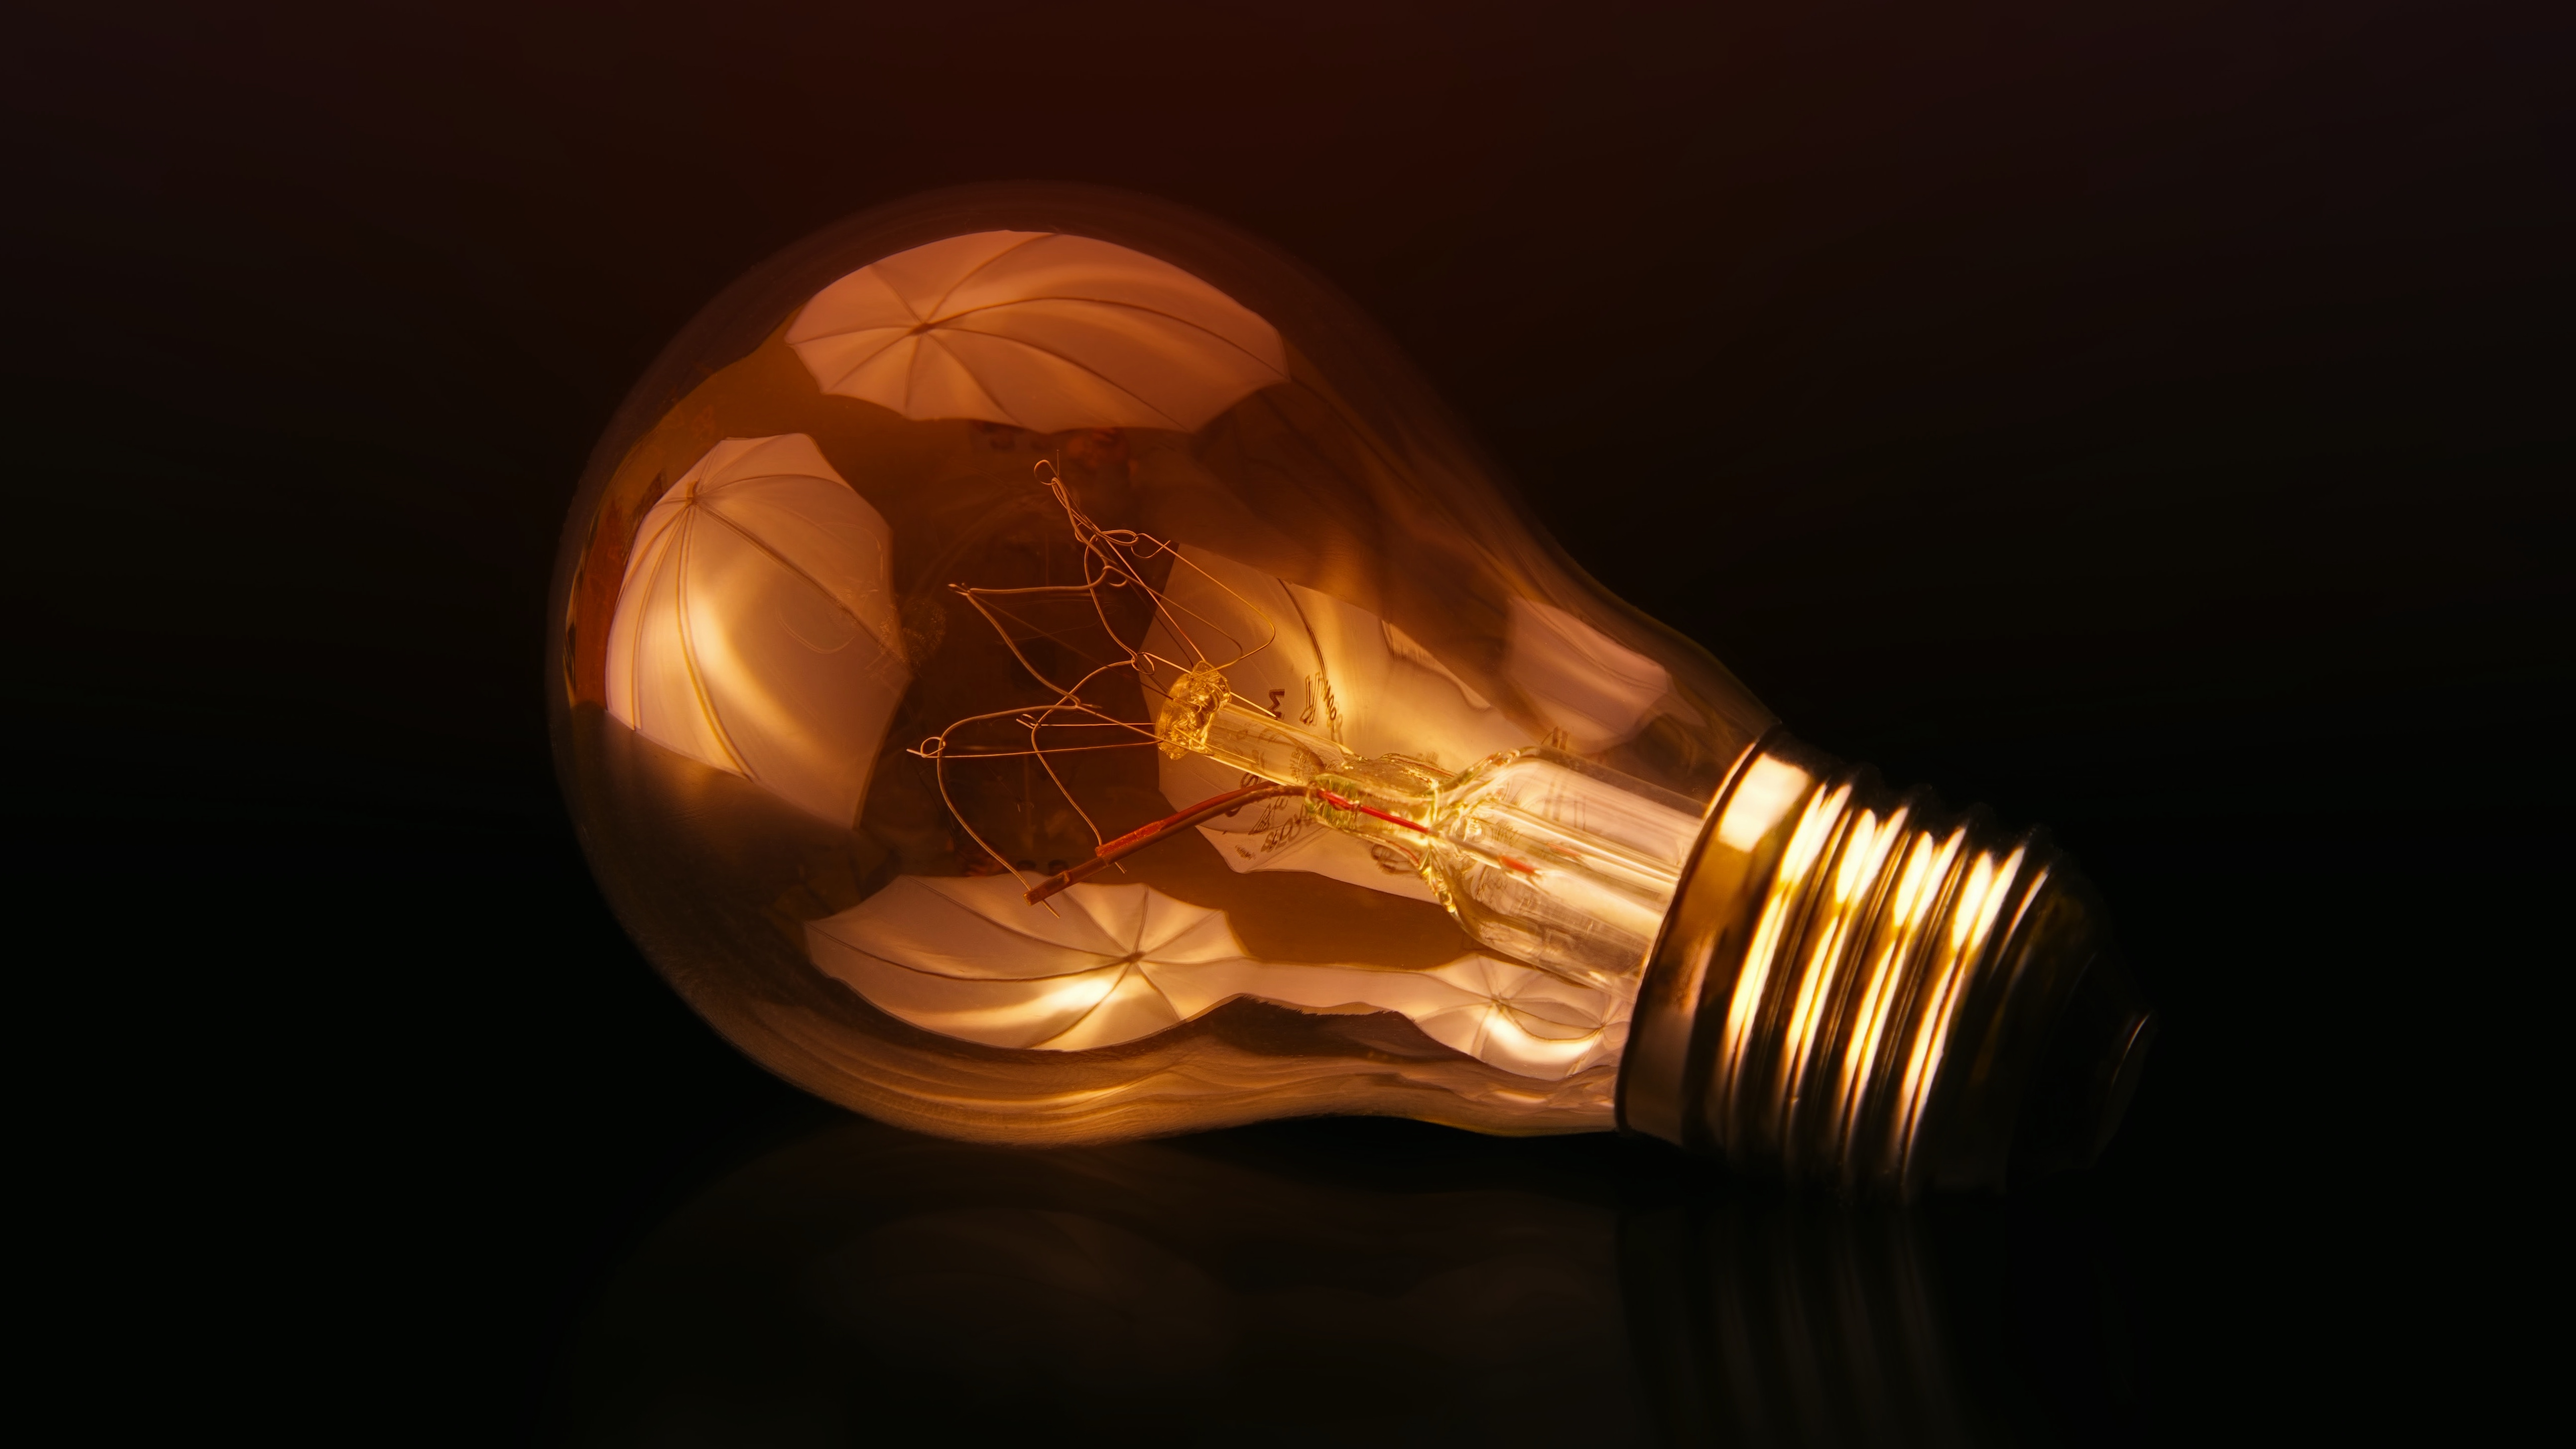
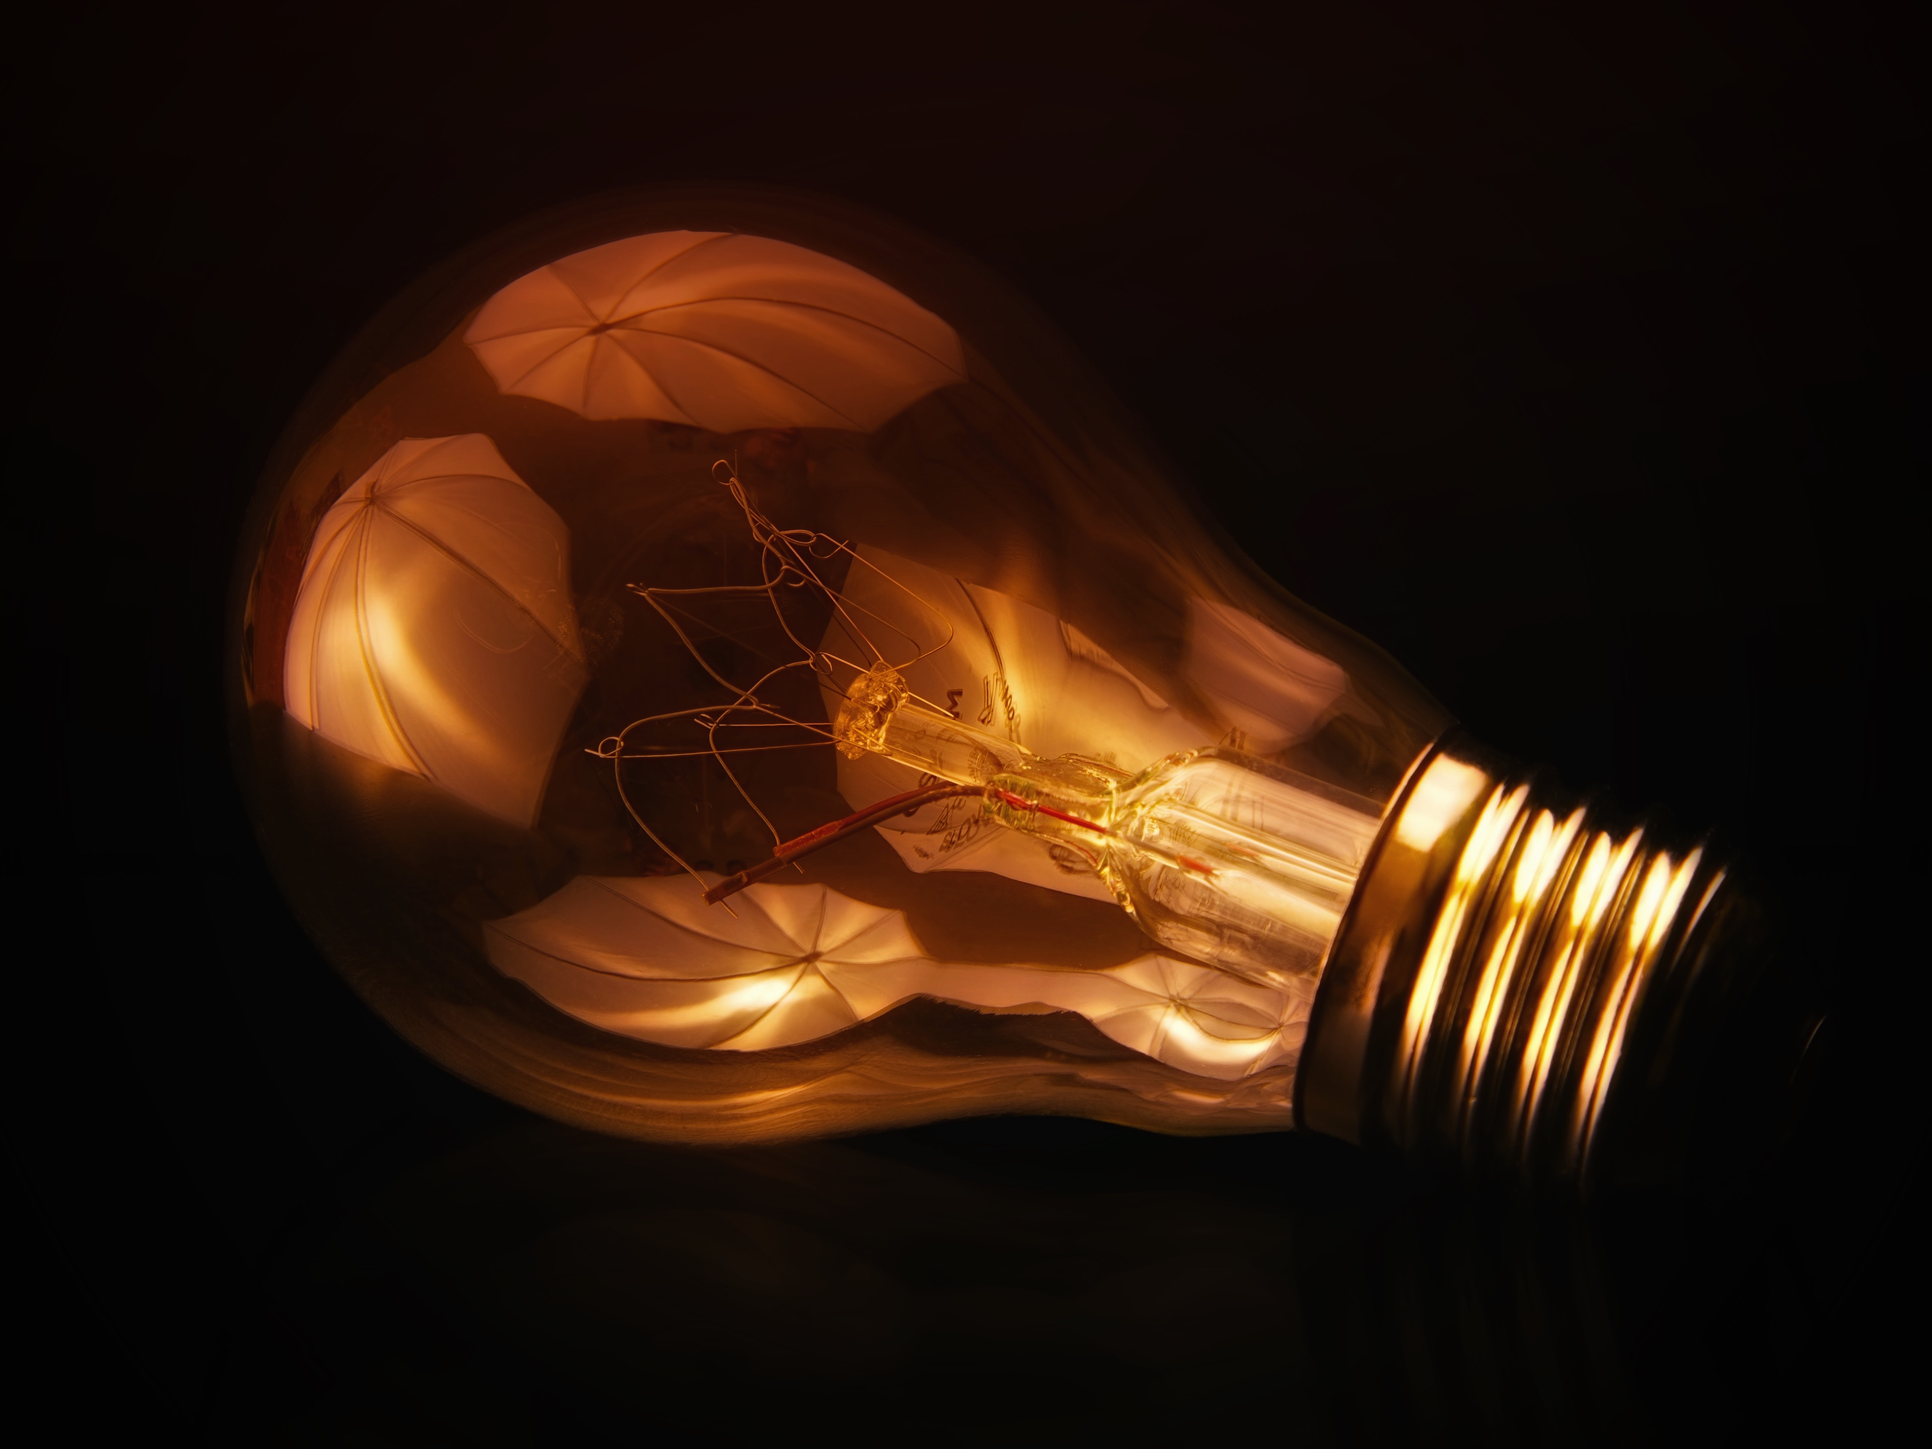
Add breackpoints on import and map to define them
- Use SASS to storage breackpoints in a var and the use trought
      import.

    - Modify layout on empresa.html and productos.html, change
      container-fluid by container on page main.

    - Edit imgs aspec ratio to fix on this new layout.

Changed region(s): [[0.1243, 0.1246, 0.9009, 0.8097]]

diff --git a/pages/productos.html b/pages/productos.html
@@ -58,15 +58,15 @@
 	</header>
 
 	<!-- Main -->
-	<main class="container-fluid">
+	<main class="container">
 
 		<!-- Section: CEM -->
 		<section class="row justify-content-center bg-light mt-4 mb-4 ms-2 me-2 shadow-lg" id="productosCEM">
 			<div class="col-lg-6 align-self-center">
-				<img class="img-fluid" src="../img/productosCEM.jpeg" alt="productosCEM">
+				<img class="img-fluid" src="../img/cem.jpeg" alt="productosCEM">
 			</div>
-			<div class="col-lg-6 p-4 align-self-center sections__text">
-				<h2 class="display-5 text-center">Cloud Energy Meter</h2>
+			<div class="col-lg-6 p-4 align-self-center sideText-m">
+				<h2 class="display-6 text-center">Cloud Energy Meter</h2>
 				<p>
 					Analizador inteligente de calidad de energía eléctrica trifásica, sus principales caracterísiticas son:
 				<p>
@@ -85,25 +85,22 @@
 		</section>
 
 		<!-- Section: T700 -->
-		<section class="row justify-content-center bg-dark text-light mt-4 mb-4 ms-2 me-2 shadow-lg" id="productosT700">
+		<section class="row justify-content-center mt-4 mb-4 ms-2 me-2 shadow-lg" id="productosT700">
 			<div class="col-lg-6 align-self-center">
-				<img class="img-fluid" src="../img/productosT700.jpeg" alt="productosT700">
+				<img class="img-fluid" src="../img/t700.jpeg" alt="productosT700">
 			</div>
-			<div class="col-lg-6 p-4 align-self-center order-lg-first sections__text">
-				<h2 class="display-5 text-center">T-700</h2>
+			<div class="col-lg-6 p-4 align-self-center order-lg-first sideText-m">
+				<h2 class="display-6 text-center">T-700</h2>
 				<p>
 					T-700 es un controlador inteligente de temperatura, que le permitirá gesitonar de manera remotea
 					su instalación frigorífica. Sus principales caracterísiticas son:
 				<p>
 				<ul>
-					<li>Se conecta a interenet mediante conectividad inalámbrica Wi-Fi</li>
-					<li>Es un dispositivo de fácil instalción, configuración y utilización</li>
-					<li>
-						A través del la plicación asociada (D&T Cloud) usted podrá monitorear en tiempo real
-						su isntalación. Aí como consultar valores históricos y registro de eventos/alarmas.
-					</li>
+					<li>Se conecta a internet mediante conectividad inalámbrica Wi-Fi</li>
+					<li>A través del la plicación asociada (D&T Cloud) usted podrá monitorear en tiempo real
+						y ver datos históricos de la instalación.</li>
 					<li>Permite la modificación remota del set-point o punto de funcionamiento de la cámara o instalción frigorífica</li>
-					<li>Puede accionar el motor del compresor. Es decir integra en un mismo equipo un termómetro wifi y un termostato industrial</li>
+					<li>Integra en un mismo equipo un termómetro wifi y un termostato industrial</li>
 				</ul>
 			</div>
 		</section>
@@ -111,10 +108,10 @@
 		<!-- Section: Gateway IoT -->
 		<section class="row justify-content-center bg-light mt-4 mb-4 ms-2 me-2 shadow-lg" id="productosGwIoT">
 			<div class="col-lg-6 align-self-center">
-				<img class="img-fluid" src="../img/productosGwIoT.jpeg" alt="productosGwIoT">
+				<img class="img-fluid" src="../img/GwIoT.jpeg" alt="productosGwIoT">
 			</div>
-			<div class="col-lg-6 p-5 align-self-center sections__text">
-				<h2 class="display-5 text-center">Gateway IoT</h2>
+			<div class="col-lg-6 p-5 align-self-center sideText-m">
+				<h2 class="display-6 text-center">Gateway IoT</h2>
 				<p>
 					Este dispositivo, le permitira llevar su tablero/instalación, a la nube. Integrando de este modo
 					su industria al mundo del IoT industrial. Sus principales caracterísiticas son:

diff --git a/pages/empresa.html b/pages/empresa.html
@@ -58,15 +58,15 @@
 	</header>
 
 	<!-- Main -->
-	<main class="container-fluid">
+	<main class="container">
 
 		<!-- Section: La empresa -->
 		<section class="row justify-content-center bg-light mt-4 mb-4 ms-2 me-2 shadow-lg">
 			<div class="col-lg-6 align-self-center">
 				<img class="img-fluid" src="../img/embedded.jpeg" alt="imgEmbbedded">
 			</div>
-			<div class="col-lg-6 p-4 align-self-center sections__text">
-				<h2 class="display-5 text-center">D&T Soluciones</h2>
+			<div class="col-lg-6 p-4 align-self-center sideText-m">
+				<h2 class="display-6 p-4 text-center">D&T Soluciones</h2>
 				<p class="text-center">
 					Somos una empresa joven de profesionales emprendedores. Desde 2018 nos encontramos desarrollando
 					soluciones del IoT basadas en sistemas embebidos. Con años de experiencia en el campo de aplicación
@@ -81,8 +81,8 @@
 			<div class="col-lg-6 align-self-center">
 				<img class="img-fluid" src="../img/iot.jpeg" alt="teamHome">
 			</div>
-			<div class="col-lg-6 p-4 align-self-center order-lg-first sections__text">
-				<h2 class="display-5 text-center">Desarrollos IoT</h2>
+			<div class="col-lg-6 p-4 align-self-center order-lg-first sideText-m">
+				<h2 class="display-6 p-4 text-center">Desarrollos IoT</h2>
 				<p class="text-center">
 					El Internet de las Cosas o IoT es un concepto que persigue el objeto de un mundo en
 					donde todas las "cosas" (dispositivos electrónicos, electrodomésticos, automóviles, etc.)
@@ -99,8 +99,8 @@
 			<div class="col-lg-6 align-self-center">
 				<img class="img-fluid" src="../img/bulb.jpeg" alt="methodology">
 			</div>
-			<div class="col-lg-6 p-4 align-self-center sections__text">
-				<h2 class="display-5 text-center">Metodología</h2>
+			<div class="col-lg-6 p-4 align-self-center sideText-m">
+				<h2 class="display-6 p-4 text-center">Metodología</h2>
 				<p>
 					Nuestra filosifía de trabajo se basa en el acompañamiento permanete y el trabajo en
 					conjunto con nuestros clientes, siguiendo los siguientes procesos lógicos en todo

diff --git a/sass/styles.scss b/sass/styles.scss
@@ -1,5 +1,6 @@
 // Imports
 @import "vars";
+@import "breakpoints";
 
 
 // Header nav logo size
@@ -15,7 +16,14 @@
 	background-size: cover;
 }
 
-.sections__text {
+.sideText-l {
+	font-size: 1em;
+	font-style: italic;
+	font-weight: lighter;
+	line-height: 1.5em;
+}
+
+.sideText-m {
 	font-size: 1em;
 	font-style: italic;
 	font-weight: lighter;
@@ -41,7 +49,6 @@ footer {
 	}
 }
 
-
 /* @media queries */
 /* -------------- */
 
@@ -53,8 +60,8 @@ footer {
  *		problems on screen with differents density of pixels
  */
 
- /* Tablet: min-width: 768px */
- @media screen and (min-width: 48em) {
+// Medium Screens >= 768px
+ @media screen and (min-width: map-get($breackpoints, md)) {
 
 	footer {
 
@@ -65,8 +72,8 @@ footer {
 
 }
 
-/* Add content on footer: Laptop --> min-width: 1024px */
-@media screen and (min-width: 64em) {
+// Large Screens >= 992px
+@media screen and (min-width: map-get($breackpoints, lg)) {
 
 	footer {
 
@@ -76,8 +83,8 @@ footer {
 	}
 }
 
-/* Laptop L: 1440px */
- @media screen and (min-width: 90em) {
+// Extra Large Screens >= 1200px
+ @media screen and (min-width: map-get($breackpoints, xl)) {
 
 	footer {
 
@@ -87,7 +94,12 @@ footer {
 		}
 	}
 
-	.sections__text {
+	.sideText-l {
+		font-size: 1.25em;
+		line-height: 1.8em;
+	}
+
+	.sideText-m {
 		font-size: 1.25em;
 		line-height: 1.8em;
 	}
@@ -98,10 +110,10 @@ footer {
 	}
 }
 
-/* Full HD resolution: min-width:1920px */
- @media screen and (min-width: 120em) {
+// Extra Extra Large Screens >= 1400 px
+ @media screen and (min-width: map-get($breackpoints, xxl) ) {
 
-	.sections__text {
+	.sideText-l {
 		font-size: 1.4em;
 		line-height: 2em;
 	}
@@ -115,7 +127,7 @@ footer {
 /* UDH Monitors: min-width: 2560px */
 @media screen and (min-width: 160em) {
 
-	.sections__text {
+	.sideText-l {
 		font-size: 1.75em;
 		line-height: 2.5em;
 	}

diff --git a/css/styles.css b/css/styles.css
@@ -8,7 +8,13 @@
   background-position: center;
   background-size: cover; }
 
-.sections__text {
+.sideText-l {
+  font-size: 1em;
+  font-style: italic;
+  font-weight: lighter;
+  line-height: 1.5em; }
+
+.sideText-m {
   font-size: 1em;
   font-style: italic;
   font-weight: lighter;
@@ -36,31 +42,30 @@ footer p {
  *		1em = 16px. To use relative units and avoid
  *		problems on screen with differents density of pixels
  */
-/* Tablet: min-width: 768px */
 @media screen and (min-width: 48em) {
   footer p {
     font-size: 0.9em; } }
 
-/* Add content on footer: Laptop --> min-width: 1024px */
-@media screen and (min-width: 64em) {
+@media screen and (min-width: 62em) {
   footer p {
     font-size: 1em; } }
 
-/* Laptop L: 1440px */
-@media screen and (min-width: 90em) {
+@media screen and (min-width: 75em) {
   footer iframe {
     width: 380px;
     height: 220px; }
-  .sections__text {
+  .sideText-l {
+    font-size: 1.25em;
+    line-height: 1.8em; }
+  .sideText-m {
     font-size: 1.25em;
     line-height: 1.8em; }
   .skills__ul {
     font-size: 1.25em;
     line-height: 1.8em; } }
 
-/* Full HD resolution: min-width:1920px */
-@media screen and (min-width: 120em) {
-  .sections__text {
+@media screen and (min-width: 87.5em) {
+  .sideText-l {
     font-size: 1.4em;
     line-height: 2em; }
   .skills__ul {
@@ -69,7 +74,7 @@ footer p {
 
 /* UDH Monitors: min-width: 2560px */
 @media screen and (min-width: 160em) {
-  .sections__text {
+  .sideText-l {
     font-size: 1.75em;
     line-height: 2.5em; } }
 

diff --git a/index.html b/index.html
@@ -73,7 +73,7 @@
 			<div class="col-lg-6 align-self-center">
 				<img class="img-fluid" src="./img/doMore.jpeg" alt="imgHome">
 			</div>
-			<div class="col-lg-6 p-4 align-self-center sections__text">
+			<div class="col-lg-6 p-4 align-self-center sideText-l">
 				<p class="text-center">
 					Somos una empresa joven de profesionales emprendedores. Desde 2018 nos encontramos desarrollando
 					soluciones del IoT basadas en sistemas embebidos. Con años de experiencia en el campo de aplicación
@@ -89,7 +89,7 @@
 			<div class="col-lg-6 align-self-center">
 				<img class="img-fluid" src="./img/team-3.jpeg" alt="teamHome">
 			</div>
-			<div class="col-lg-6 p-4 align-self-center order-lg-first sections__text">
+			<div class="col-lg-6 p-4 align-self-center order-lg-first sideText-l">
 				<p class="text-center">
 					Nuestro grupo de trabajo está integrado por profesionales con años de experiencia comprobable
 					en el desarrollo de soluciones industriales basadas en sistemas embebidos. Comenzando desde
@@ -101,7 +101,7 @@
 		</section>
 
 		<!-- Section: Products -->
-		<section class="row justify-content-center bg-light pt-3 pb-5 ps-3 pe-3 mt-4 mb-4 ms-2 me-2 shadow-lg">
+		<section class="row justify-content-center bg-light pt-3 pb-5 ps-3 pe-3 mt-4 mb-4 ms-2 me-2">
 			<h2 class="display-3 fw-normal text-center">Productos</h2>
 			<!-- Products: Cards -->
 			<article class="col-lg-4 mt-4">
@@ -146,9 +146,7 @@
 					</div>
 				  </div>
 			</article>
-
 		</section>
-
 	</main>
 
 	<!-- Footer -->

diff --git a/sass/_breakpoints.scss b/sass/_breakpoints.scss
@@ -1,0 +1,9 @@
+// Breakpoints map
+// Use em to defined, note that 16px = 1em
+$breackpoints: (
+	sm: 36em,
+	md: 48em,
+	lg: 62em,
+	xl: 75em,
+	xxl: 87.5em
+);
